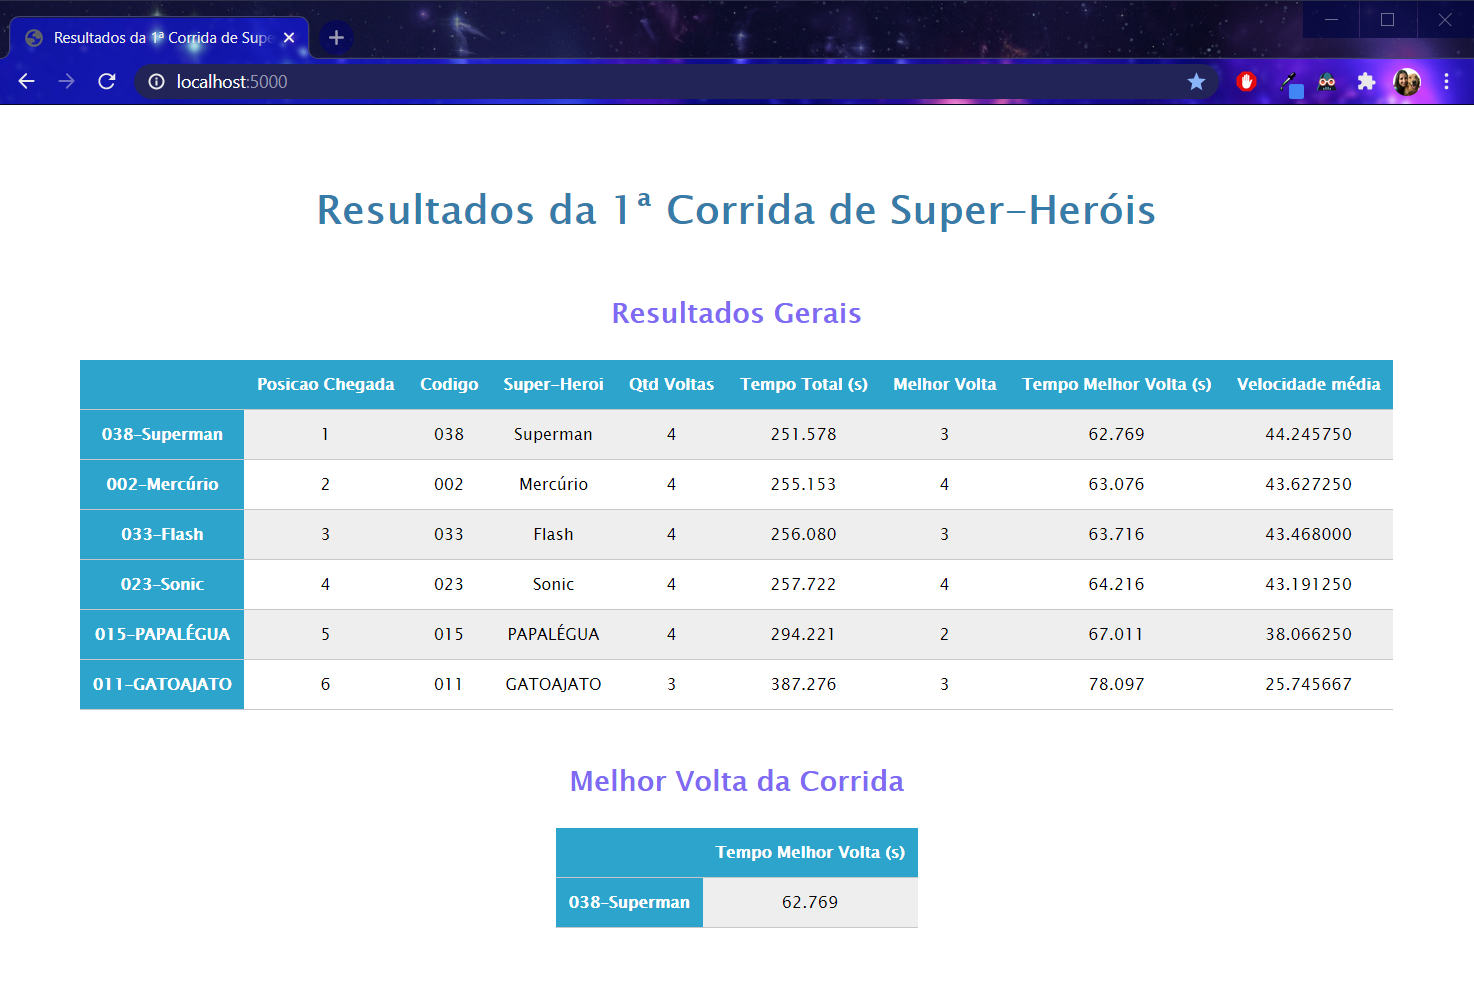
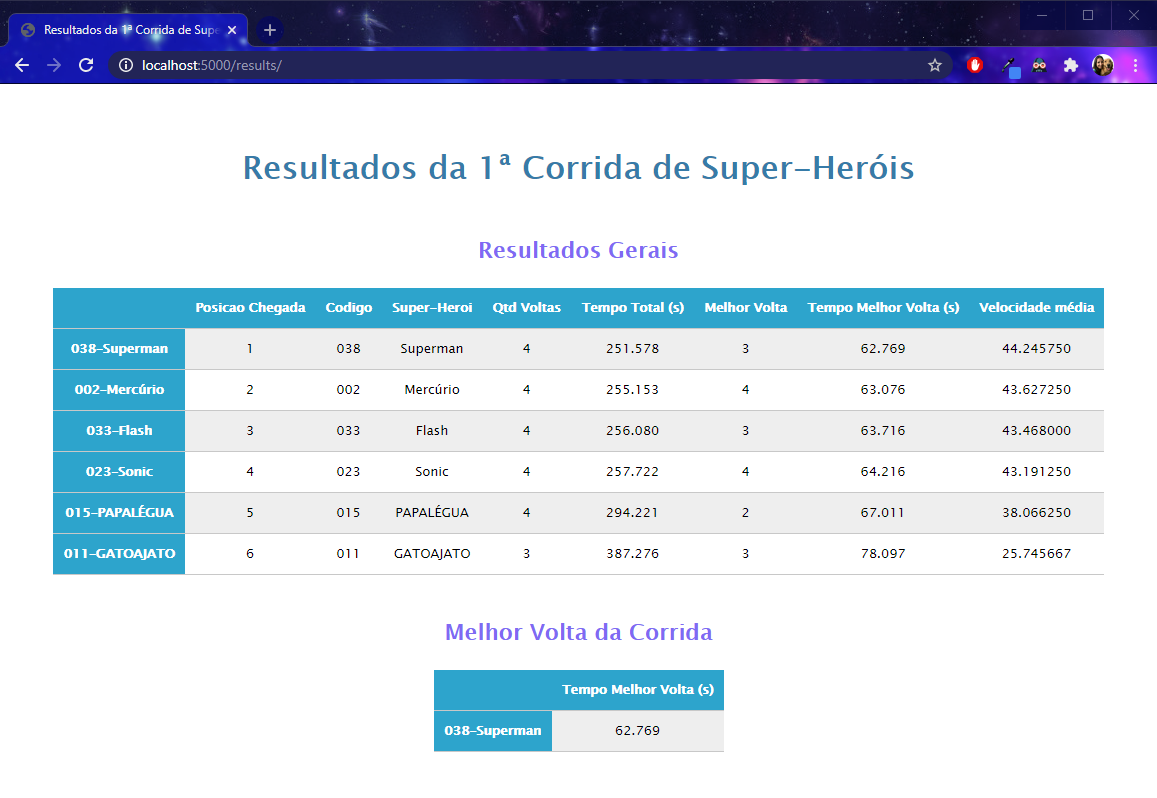
Ex.3: version 1 - added API documentation and unit testing

diff --git a/ex3/api/endpoints/race_res.py b/ex3/api/endpoints/race_res.py
@@ -1,0 +1,35 @@
+from flask import request, jsonify, render_template, make_response
+from flask_restplus import Resource
+from werkzeug.utils import secure_filename
+from api.restplus import api
+from api.parse_log import get_race_res, get_race_res_json
+
+race_res = api.namespace('results', description='Race Results')
+
+# Endpoint for posting API's log input
+@race_res.route('/post', methods=['POST'])
+class Post(Resource):
+	def post(self):
+		'''
+			This function gets the posted log file, then gets race results.
+			The return is a JSON representation of the result dataframes.
+		'''
+		file = request.files['file']
+		json_res = get_race_res_json(file)
+		return jsonify(json_res)
+
+
+# Endpoint for visualizing the results
+@race_res.route('/', methods=['GET'])
+class ShowResults(Resource):
+	def get(self):
+		'''
+			This function gets race results from log file, then converts it to JSON.
+			The result dataframes are then rendered as HTML tables.
+		'''
+		headers = {'Content-Type': 'html'}
+		df_res, df_best_lap = get_race_res("corrida.log")
+		return make_response(render_template('view.html', \
+			tables=[df_res.to_html(classes='results'), \
+			df_best_lap.to_html(classes='results')], \
+				titles=['na', 'Resultados Gerais', 'Melhor Volta da Corrida']))

diff --git a/ex3/api/parse_log.py b/ex3/api/parse_log.py
@@ -1,5 +1,6 @@
 import pandas as pd
 import numpy as np
+import json
 from datetime import timedelta
 
 
@@ -107,3 +108,16 @@ def get_race_res(log_file):
 	df_best_lap = pd.DataFrame(best_lap, index=[bl_index])
 
 	return df_res, df_best_lap
+
+
+def get_race_res_json(file):
+	'''
+		This function gets race results from log file, then converts it to JSON.
+		The return is JSON-like dicts of the dataframes containing the results.
+	'''
+	# Get race results
+	df_res, df_best_lap = get_race_res(file)
+	# Convert dataframes to JSONlike dicts
+	json_race_res = json.loads(df_res.to_json(orient="split"))
+	json_best_lap = json.loads(df_best_lap.to_json(orient="split"))
+	return json_race_res, json_best_lap

diff --git a/ex3/api/app.py b/ex3/api/app.py
@@ -1,0 +1,25 @@
+from flask import Flask, Blueprint
+from api.restplus import api
+from api.endpoints.race_res import race_res
+from api.log import log
+
+app = Flask(__name__)
+
+def initialize_app(app):
+	app.config['RESTPLUS_VALIDATE'] = True
+	app.config['ERROR_404_HELP'] = False
+
+	blueprint = Blueprint('api', __name__)
+	api.init_app(blueprint)
+	app.register_blueprint(blueprint)
+
+	api.add_namespace(race_res)
+
+def main():
+	initialize_app(app)
+	log.info('>>>>> Starting development server at http://{}/ <<<<<'.format(app.config['SERVER_NAME']))
+	app.run(debug=True)
+
+
+if __name__ == '__main__':
+	main()

diff --git a/ex3/api/restplus.py b/ex3/api/restplus.py
@@ -1,0 +1,16 @@
+### Fix to Werkzeug 1.0.x issue
+import werkzeug
+werkzeug.cached_property = werkzeug.utils.cached_property
+###
+import traceback
+from api.log import log
+from flask_restplus import Api
+
+api = Api(version='1.0', title='Race Results API', description='An API that reads a race log file and calculates race results')
+
+
+@api.errorhandler
+def default_error_handler(e):
+	message = 'An unhandled exception occurred.'
+	log.exception(message)
+	return {'message': message}, 500

diff --git a/ex3/api/log.py b/ex3/api/log.py
@@ -1,0 +1,16 @@
+import logging
+
+
+def initialize_log():
+	logging.basicConfig(level=logging.INFO)
+	handler = logging.FileHandler("api.log")
+	log = logging.getLogger('werkzeug')
+	log.setLevel(logging.INFO)
+	log.addHandler(handler)
+	log = logging.getLogger(__name__)
+	log.setLevel(logging.DEBUG)
+	log.addHandler(handler)
+	return log
+
+
+log = initialize_log()

diff --git a/ex3/test/test_core.py b/ex3/test/test_core.py
@@ -1,0 +1,14 @@
+from api.app import app
+import sys
+import unittest
+import requests
+import json
+
+class TestHomeView(unittest.TestCase):
+
+	def setUp(self):
+		app_test = app.test_client()
+		self.response = app_test.get('/')
+
+	def test_content_type(self):
+		self.assertIn('html', self.response.content_type)

diff --git a/ex3/README.md b/ex3/README.md
@@ -2,6 +2,14 @@
 
 *An API that reads a race log file and calculates race results.*
 
+## Table of Contents
+
+1. [Exercise's Subject](#subject)
+2. [Repository Contents](#contents)
+3. [API Usage](#usage)
+4. [API Documentation](#documentation)
+5. [Testing](#testing)
+
 ## Subject
 
 > "Dado o seguinte log da primeira corrida de Super-Heróis – Volta ao Mundo.
@@ -27,8 +35,8 @@
 * [run.sh](run.sh) - shell script to start the application.
 * [run/activate.sh](activate.sh) - shell script to set and/or activate the virtual environment.
 * [run/run_app.sh](run/run_app.sh) - shell script to check/install all required packages and run the application.
-* [parse_log.py](parse_log.py) - source code for parsing race log and calculate its results.
-* [app.py](app.py) - application's source code.
+* [api/](api/) - directory of application's source code.
+* [api/parse_log.py](parse_log.py) - source code for parsing race log and calculate its results.
 * [corrida.log](corrida.log) - log file to be used as input in the application.
 * [post.sh](post.sh) - shell script to POST `corrida.log` to the application.
 * [requirements.txt](requirements.txt) - list of all necessary packages to run the application.
@@ -46,7 +54,7 @@ All packages listed in [requirements.txt](requirements.txt) will be installed up
 After cloning this repository, `cd` to `ex3` directory and follow the instructions bellow.
 
 **1. To start the application (inside virtual environment), run:**
-```
+```shell
 $ source run.sh
 ```
 
@@ -57,22 +65,45 @@ $ source run.sh
 > * *when running the virtual environment for the first time, you'll be prompted to install all necessary packages to run the application.*
 
 **2. To input the log file to the application, in another shell window, run:**
-```
+```shell
 $ sh post.sh
 ```
 
+The application's return will be printed on stdout in JSON format (see image below).
+
 ![Screenshot of step's output on shell](screenshots/shell-post.png)
 
-> ***Note:** the application's return will be printed on stdout in JSON format.*
-
-💡 To see the application's result on a web browser, access `http://localhost:5000/` (see image below).
+💡 **To see the application's result on a web browser, access `http://localhost:5000/results` (see image below).**
 
 ![Screenshot of step's output on browser](screenshots/browser.png)
 
 **3. To kill the application, press `ctrl+C`.**
 
 **4. To deactivate the virtual environment, run:**
-```
+```shell
 (venv) $ deactivate
 ```
 
+## Documentation
+
+📘 To read the API's documentation, access `http://localhost:5000/` (see image below).
+
+![Screenshot of API's documentation shown in web browser](screenshots/documentation.png)
+
+> **Note:** the documentation is automatically generated by *Flask RESTplus* package.
+
+## Testing
+
+**1. To start the unit tests, run:**
+```shell
+(venv) $ py.test
+```
+
+![Screenshot of step's output on shell](screenshots/py_test.png)
+
+**2. To check test coverage, run:**
+```shell
+(venv) $ py.test --cov=api
+```
+
+![Screenshot of step's output on shell](screenshots/test_cov.png)
